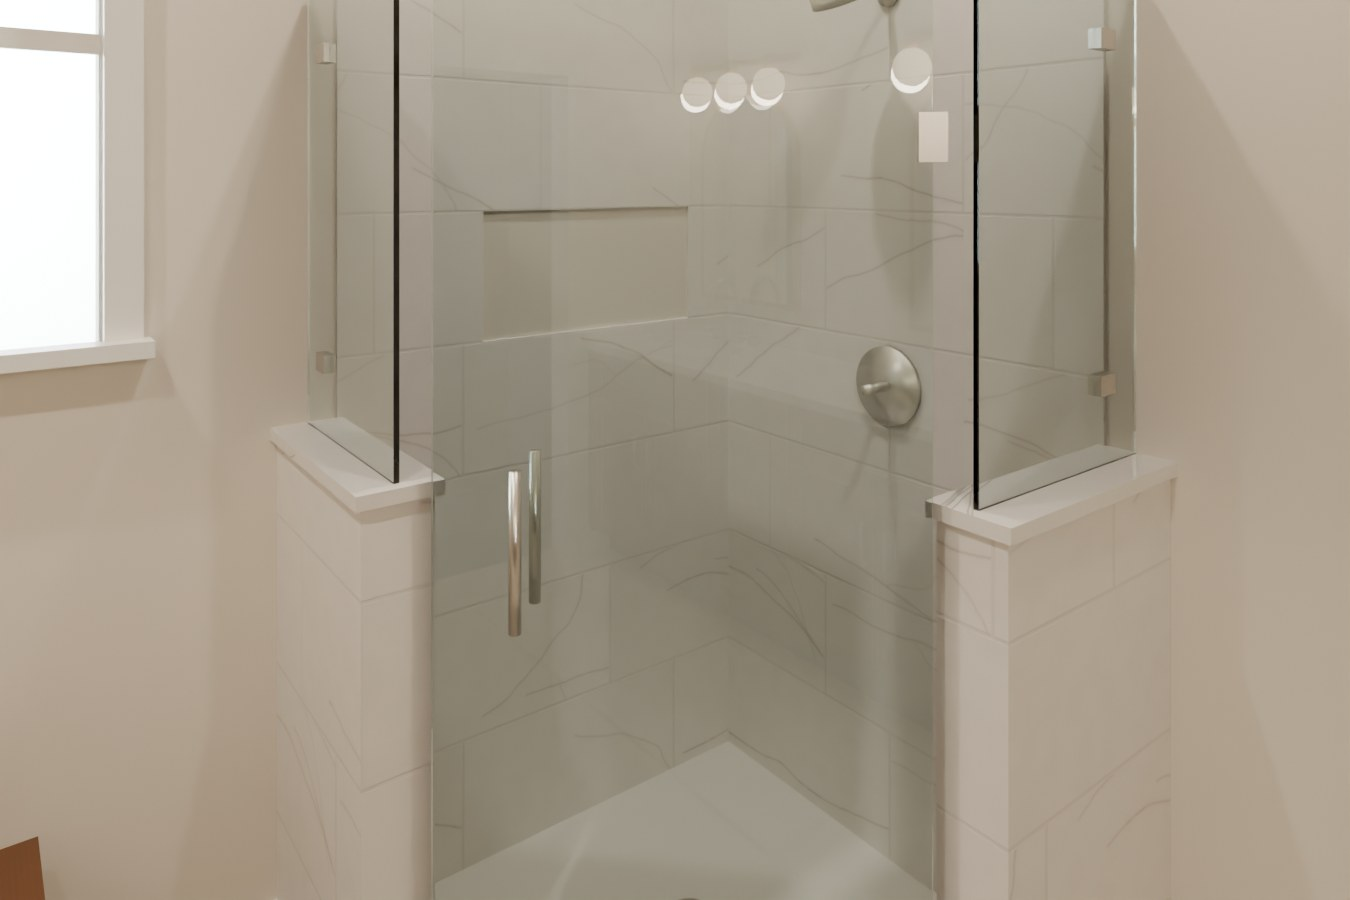
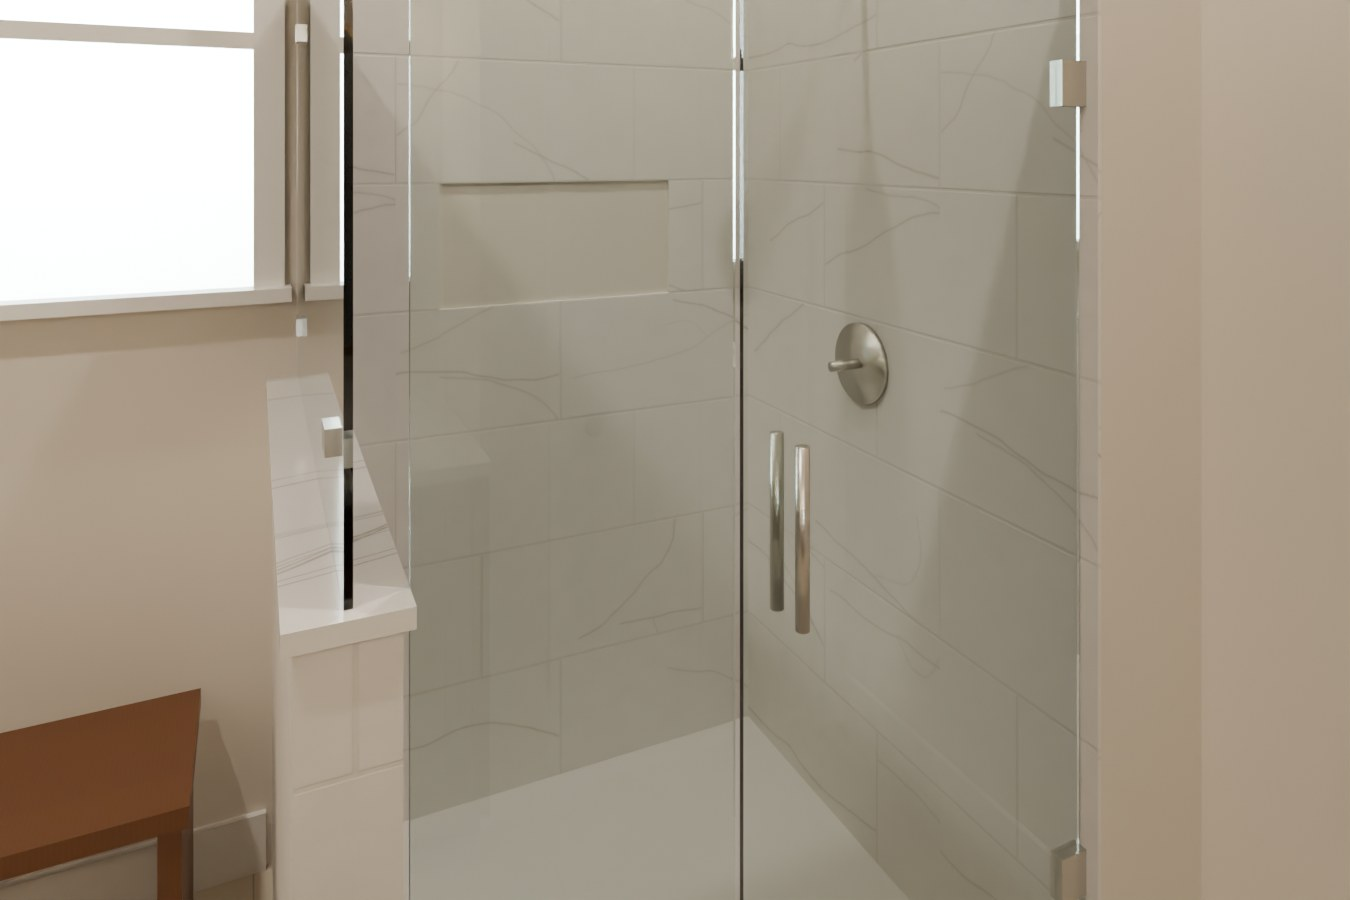
Olive Hill concept: replace neo-angle with enlarged-stall Option 2 (knee wall off window wall, door toward toilet room)
Claude-Session: https://claude.ai/code/session_01SeE1aYPeiWt3ibgsh6fWaQ

diff --git a/concepts/olive-hill/walkthrough.html b/concepts/olive-hill/walkthrough.html
@@ -175,35 +175,29 @@ cyl(2.6,1.2,1.2,M.metal,84.5,78.6,D-6.6,Math.PI/2-0.45);
 cyl(2,2,0.1,M.metal,84.5,0.4,108);
 
 TARGET=scene;
-// ---------- OPTION 2: 48x48 neo-angle acrylic base, knee walls on both returns, neo-angle door ----------
+// ---------- OPTION 2: the existing stall enlarged ~6" each way (46" out from the window wall x 44" along it) on an acrylic pan.
+// Knee wall comes out from the window wall on the tub side; glass door faces the toilet-room door; back wall stays. ----------
 TARGET=optB;
-{ const X0=55, Y0=78-6, R=20, KW=5;
-  function prismXZ(pts,y0,y1,mat){ const sh=new THREE.Shape(); sh.moveTo(pts[0][0],pts[0][1]); for(const p of pts.slice(1)) sh.lineTo(p[0],p[1]); sh.lineTo(pts[0][0],pts[0][1]);
-    const g=new THREE.ExtrudeGeometry(sh,{depth:y1-y0,bevelEnabled:false}); g.rotateX(Math.PI/2); g.translate(0,y1,0); const m=new THREE.Mesh(g,mat); m.receiveShadow=true; m.castShadow=true; optB.add(m); return m; }
-  function seg(xa,za,xb,zb,th,y0,y1,mat){ const dx=xb-xa,dz=zb-za,L=Math.hypot(dx,dz),nx=-dz/L*th/2,nz=dx/L*th/2;
-    return prismXZ([[xa+nx,za+nz],[xb+nx,zb+nz],[xb-nx,zb-nz],[xa-nx,za-nz]],y0,y1,mat); }
-  prismXZ([[X0,D],[X0,D-R],[W-R,Y0],[W,Y0],[W,D]],0,0.35,acryl);
-  box(X0,X0+KW,0,42,D-R,D,M.tile); box(X0-0.5,X0+KW+0.5,42,43,D-R-0.5,D,M.quartz);
-  box(W-R,W,0,42,Y0,Y0+KW,M.tile); box(W-R-0.5,W,42,43,Y0-0.5,Y0+KW+0.5,M.quartz);
-  // glass: fixed panels on both knee walls, neo-angle door on the angle — with visible edges so it reads in 3D
-  const gNeo=new THREE.MeshPhysicalMaterial({color:'#dcebea',roughness:0.02,transparent:true,opacity:0.28,side:THREE.DoubleSide,envMapIntensity:1.5});
+{ const CX0=57, CY0=66, CY1=110;
+  const gC=new THREE.MeshPhysicalMaterial({color:'#dcebea',roughness:0.02,transparent:true,opacity:0.28,side:THREE.DoubleSide,envMapIntensity:1.5});
   const edge=M.glassEdge;
-  box(X0+2.3,X0+2.7,43,78,D-R+0.5,D-0.3,gNeo,false); box(X0+2.2,X0+2.8,77.6,78,D-R+0.5,D-0.3,edge,false); box(X0+2.2,X0+2.8,43,78,D-R+0.3,D-R+0.6,edge,false);
-  box(W-R+0.5,W-0.3,43,78,Y0+2.3,Y0+2.7,gNeo,false); box(W-R+0.5,W-0.3,77.6,78,Y0+2.2,Y0+2.8,edge,false); box(W-R+0.3,W-R+0.6,43,78,Y0+2.2,Y0+2.8,edge,false);
-  for(const y of [48,72]){ box(X0+1.9,X0+3.1,y,y+1.4,D-6,D-4,M.metal,false); box(W-6,W-4,y,y+1.4,Y0+1.9,Y0+3.1,M.metal,false); }
-  const dA=[X0+KW*0.5,D-R], dB=[W-R,Y0+KW*0.5];
-  seg(dA[0]+1.2,dA[1]-1.2,dB[0]-1.2,dB[1]+1.2,3,0,4,acryl);
-  seg(dA[0]+1.6,dA[1]-1.6,dB[0]-1.6,dB[1]+1.6,0.4,4.25,77,gNeo);
-  seg(dA[0]+1.6,dA[1]-1.6,dB[0]-1.6,dB[1]+1.6,0.6,76.6,77,edge); seg(dA[0]+1.6,dA[1]-1.6,dB[0]-1.6,dB[1]+1.6,0.6,4.25,4.65,edge);
-  for(const [y0,y1] of [[12,15],[64,67]]) seg(dA[0]+1.0,dA[1]-1.0,dA[0]+2.4,dA[1]-2.4,0.9,y0,y1,M.metal);
-  for(const sg of [-1,1]) cyl(0.4,0.4,10,M.metal,dB[0]-6+sg*1.1,40,dB[1]+6+sg*1.1);
-  box(X0+KW,W,0,85,D-0.3,D,M.tile);
-  box(W-0.3,W,0,85,Y0+KW,90,M.tile); box(W-0.3,W,0,85,114,D,M.tile); box(W-0.3,W,0,48,90,114,M.tile); box(W-0.3,W,60,85,90,114,M.tile);
-  box(W+3,W+3.3,48,60,90,114,M.tile); box(W,W+3,47.6,48,90,114,M.quartz); box(W,W+3,60,60.3,90,114,M.tile);
-  cyl(3.6,3.6,0.5,M.metal,80,44,D-0.55,Math.PI/2); cyl(0.45,0.45,3,M.metal,80,44,D-2.3,Math.PI/2);
-  cyl(1.2,1.2,0.4,M.metal,80,80,D-0.5,Math.PI/2); cyl(0.4,0.4,6,M.metal,80,79.5,D-3.3,Math.PI/2.3); cyl(2.6,1.2,1.2,M.metal,80,78.6,D-6.6,Math.PI/2-0.45);
-  cyl(2,2,0.1,M.metal,86,0.4,101);
-  box(W-0.6,W,0,5,60,Y0,M.trim,false);
+  box(CX0,W,0,0.35,CY0,CY1,acryl,false); box(CX0,CX0+3,0,3,CY0,CY1,acryl);
+  box(CX0,W,0,42,CY0-4.5,CY0,M.tile); box(CX0-0.5,W,42,43,CY0-5,CY0+0.5,M.quartz);
+  box(CX0+0.5,W-0.3,43,78,CY0-2.45,CY0-2.05,gC,false); box(CX0+0.5,W-0.3,77.6,78,CY0-2.55,CY0-1.95,edge,false); box(CX0+0.3,CX0+0.6,43,78,CY0-2.55,CY0-1.95,edge,false);
+  for(const xx of [CX0+6,W-8]) for(const y of [48,72]) box(xx,xx+2,y,y+1.4,CY0-2.85,CY0-1.65,M.metal,false);
+  box(CX0,W,0,WH,CY1,D,M.paint); box(CX0-0.6,CX0,0,5,CY1,D,M.trim,false);
+  // fixed panel by the knee wall + hinged door facing the toilet room
+  box(CX0+1.3,CX0+1.7,3,78,CY0+0.5,CY0+17.5,gC,false); box(CX0+1.2,CX0+1.8,77.6,78,CY0+0.5,CY0+17.5,edge,false);
+  box(CX0+1.3,CX0+1.7,3.25,78,CY0+18,CY1-0.5,gC,false); box(CX0+1.2,CX0+1.8,77.6,78,CY0+18,CY1-0.5,edge,false); box(CX0+1.2,CX0+1.8,3.25,78,CY0+18,CY0+18.4,edge,false);
+  for(const y of [14,66]) box(CX0+0.9,CX0+2.1,y,y+3,CY1-2.5,CY1,M.metal,false);
+  for(const sg of [-1,1]) cyl(0.4,0.4,10,M.metal,CX0+1.5+sg*1.4,42,CY0+21);
+  // tile on the window wall and back wall, niche on the window wall
+  box(W-0.3,W,0,85,CY0,76,M.tile); box(W-0.3,W,0,85,100,CY1,M.tile); box(W-0.3,W,0,48,76,100,M.tile); box(W-0.3,W,60,85,76,100,M.tile);
+  box(W+3,W+3.3,48,60,76,100,M.tile); box(W,W+3,47.6,48,76,100,M.quartz); box(W,W+3,60,60.3,76,100,M.tile);
+  box(CX0,W,0,85,CY1-0.3,CY1,M.tile);
+  cyl(3.6,3.6,0.5,M.metal,82,44,CY1-0.55,Math.PI/2); cyl(0.45,0.45,3,M.metal,82,44,CY1-2.3,Math.PI/2);
+  cyl(1.2,1.2,0.4,M.metal,82,80,CY1-0.5,Math.PI/2); cyl(0.4,0.4,6,M.metal,82,79.5,CY1-3.3,Math.PI/2.3); cyl(2.6,1.2,1.2,M.metal,82,78.6,CY1-6.6,Math.PI/2-0.45);
+  cyl(2,2,0.1,M.metal,80,0.4,88);
 }
 TARGET=scene;
 
@@ -234,10 +228,10 @@ const cam=new THREE.PerspectiveCamera(70,innerWidth/innerHeight,1,2000);
 function fitFov(){ const asp=innerWidth/innerHeight; const h=THREE.MathUtils.degToRad(82); cam.fov=Math.min(80,Math.max(55,THREE.MathUtils.radToDeg(2*Math.atan(Math.tan(h/2)/asp)))); cam.aspect=asp; cam.updateProjectionMatrix(); }
 fitFov();
 const EYE=62; let yaw=0,pitch=-0.1; const pos=new THREE.Vector3(); let target=null;
-const VIEWS={entry:[[44,EYE,4],[60,50,110]],shower:[[22,EYE,50],[88,40,100]],inside:[[83,EYE,84],[84,44,D]],vanity:[[86,EYE,60],[0,46,40]]};
+const VIEWS={entry:[[44,EYE,4],[60,50,110]],shower:[[22,EYE,50],[88,40,100]],inside:[[86,EYE,70],[80,40,112]],vanity:[[86,EYE,60],[0,46,40]]};
 function lookAt(p,l){ const d=new THREE.Vector3(...l).sub(new THREE.Vector3(...p)); yaw=Math.atan2(-d.x,-d.z); pitch=Math.atan2(d.y,Math.hypot(d.x,d.z)); }
 function clampPos(p){ p.x=Math.max(p.z>80?24:25,Math.min(98,p.x)); p.z=Math.max(5,Math.min(115,p.z));
-  if(typeof OPT!=='undefined' && OPT===2){ const s=p.x+p.z, inS=s>166 && p.x>61 && p.z>78; if(!inS && s>146){ const k=(s-146)/2; p.x-=k; p.z-=k; } return p; }
+  if(typeof OPT!=='undefined' && OPT===2){ const inS=p.x>62 && p.z>68 && p.z<108; if(!inS){ if(p.x>53 && p.z>58 && p.z<112) p.x=53; if(p.z>106) p.x=Math.min(p.x,53); } return p; }
   const inShower=p.x>68 && p.z>64;
   if(!inShower && p.x>56 && p.z>64) p.x=56;                    // knee wall
   if(!inShower && p.z>55 && p.z<64 && p.x>88) p.z=55;          // fixed glass at the entry
@@ -245,7 +239,7 @@ function clampPos(p){ p.x=Math.max(p.z>80?24:25,Math.min(98,p.x)); p.z=Math.max(
 function go(n){ const [p,l]=VIEWS[n]; target={pos:new THREE.Vector3(...p),view:l}; }
 pos.set(...VIEWS.entry[0]); lookAt(VIEWS.entry[0],VIEWS.entry[1]);
 document.querySelectorAll('[data-v]').forEach(b=>b.addEventListener('click',()=>go(b.dataset.v)));
-let OPT=1; const optBtn=document.getElementById('opt'); optBtn.addEventListener('click',()=>{ OPT=OPT===1?2:1; optA.visible=OPT===1; optB.visible=OPT===2; optBtn.textContent=OPT===1?'Option 1: 42×60 knee wall':'Option 2: 48×48 neo-angle'; });
+let OPT=1; const optBtn=document.getElementById('opt'); optBtn.addEventListener('click',()=>{ OPT=OPT===1?2:1; optA.visible=OPT===1; optB.visible=OPT===2; optBtn.textContent=OPT===1?'Option 1: 42×60 knee wall':'Option 2: enlarged stall'; });
 const styleBtn=document.getElementById('style'); styleBtn.addEventListener('click',()=>{ const o=!styled.visible; styled.visible=o; styleBtn.textContent=o?'Styling on':'Styling off'; styleBtn.classList.toggle('on',o); styleBtn.setAttribute('aria-pressed',o); });
 let drag=null; const el=renderer.domElement; const ray=new THREE.Raycaster();
 el.addEventListener('pointerdown',e=>{ drag={x:e.clientX,y:e.clientY,moved:0}; el.setPointerCapture(e.pointerId); });

diff --git a/concepts/olive-hill/index.html b/concepts/olive-hill/index.html
@@ -79,23 +79,23 @@ footer a{color:var(--label)}
 
   <section class="sel">
     <div class="eyebrow" style="color:var(--label)">Shower Option 2</div>
-    <h2>Neo-angle shower</h2>
-    <p>Same corner, shaped differently: a 48×48 neo-angle acrylic base with short tiled knee walls on both sides, glass on top, and a glass door on the angled front. You get roughly 43" of standing room each way, and the angled front keeps the floor open in front of the vanity.</p>
+    <h2>Bigger shower in the same spot</h2>
+    <p>The shower stays where it is now, about 6" bigger each way (about 46"×44"), on a new acrylic shower base. A tiled knee wall with glass on top comes out from the window wall, the glass door faces the toilet-room door, and the back wall stays where it is.</p>
   </section>
 
   <figure>
-    <img src="b_main.jpg" alt="Option 2: neo-angle shower with two knee walls">
+    <img src="b_main.jpg" alt="Option 2: bigger shower in the same spot">
     <figcaption>
       <h3>Option 2 — the room</h3>
-      <p>The angled door faces the middle of the room, so the walkway in front of the vanity stays wide.</p>
+      <p>The knee wall and glass face the window, and the shower door opens toward the toilet room.</p>
     </figcaption>
   </figure>
 
   <figure>
-    <img src="b_shower.jpg" alt="Option 2: neo-angle shower close-up">
+    <img src="b_shower.jpg" alt="Option 2: shower close-up">
     <figcaption>
       <h3>Option 2 — the shower</h3>
-      <p>Knee walls with a stone cap and fixed glass on both returns, a frameless glass door on the angle, the same marble-look wall tile and recessed niche.</p>
+      <p>A frameless glass door and fixed panel on the open side, the same marble-look wall tile, and a recessed niche on the window wall.</p>
     </figcaption>
   </figure>
 
